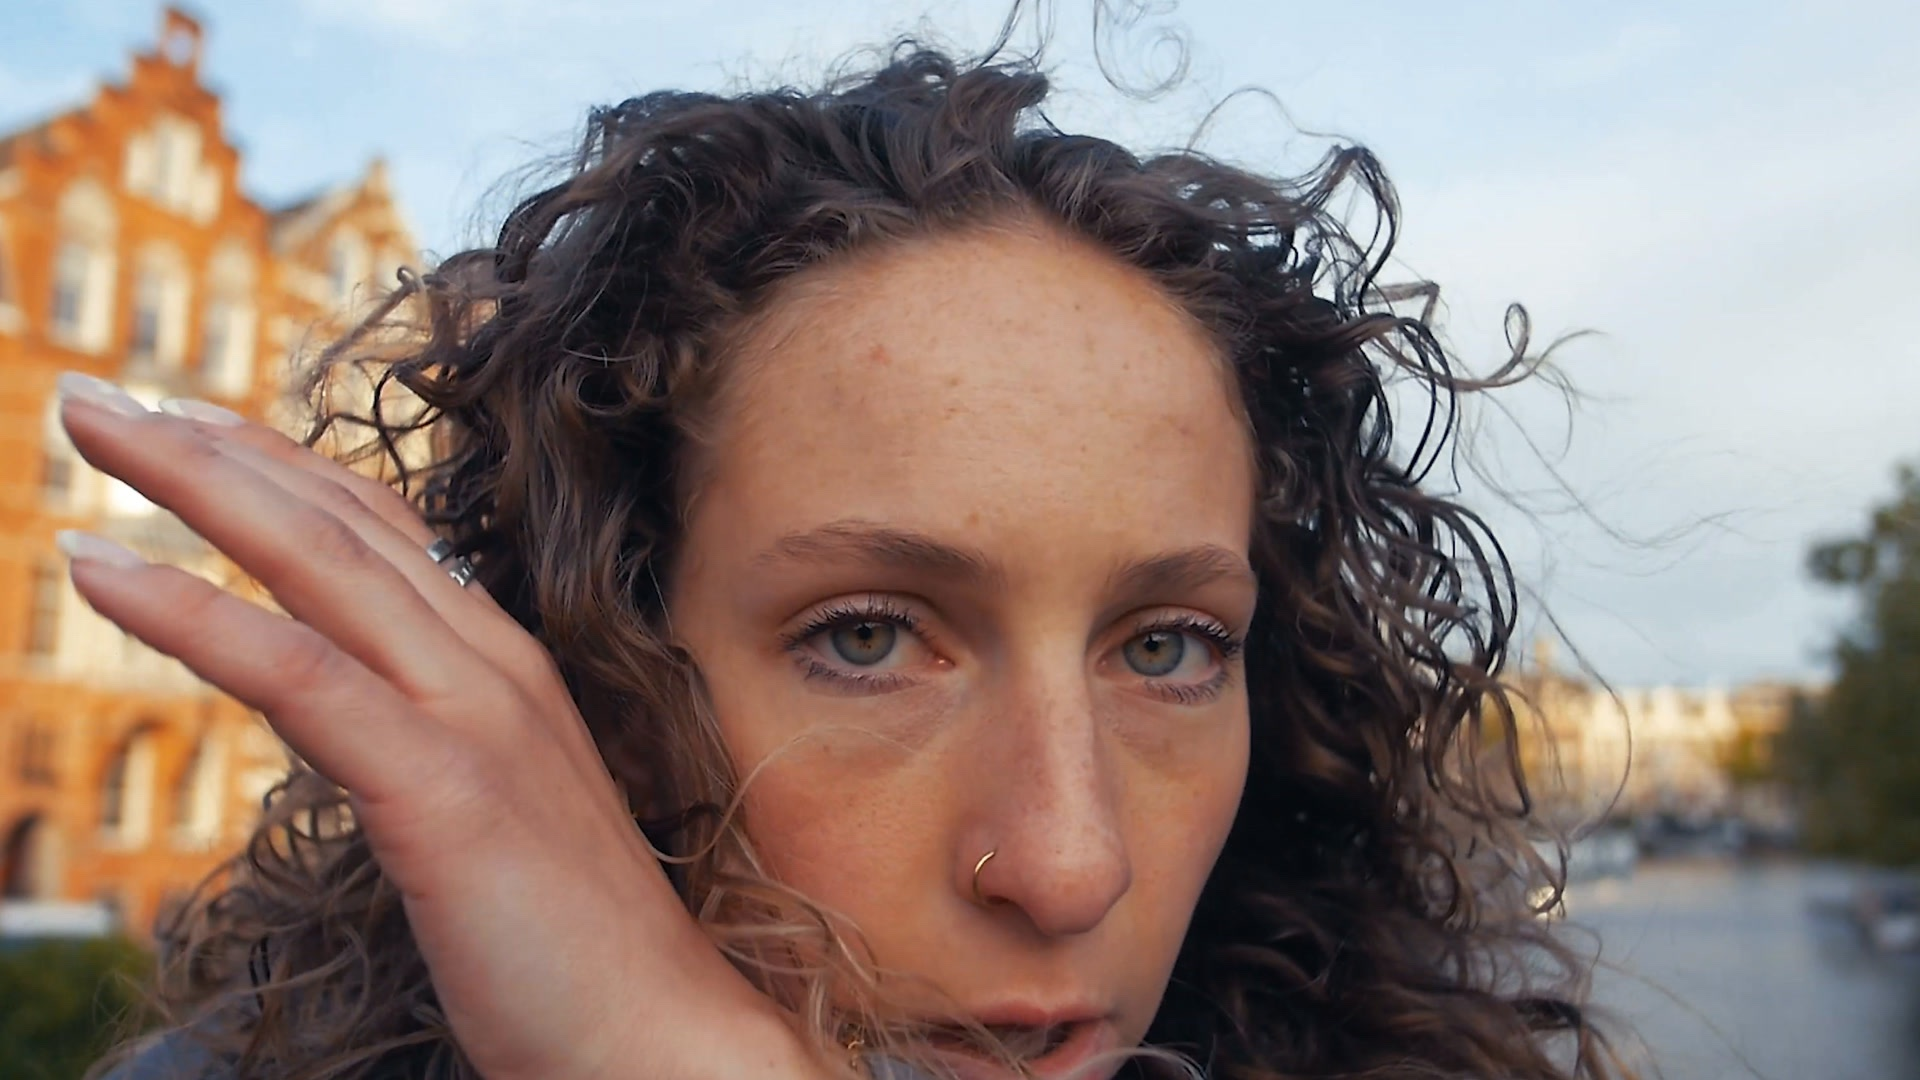
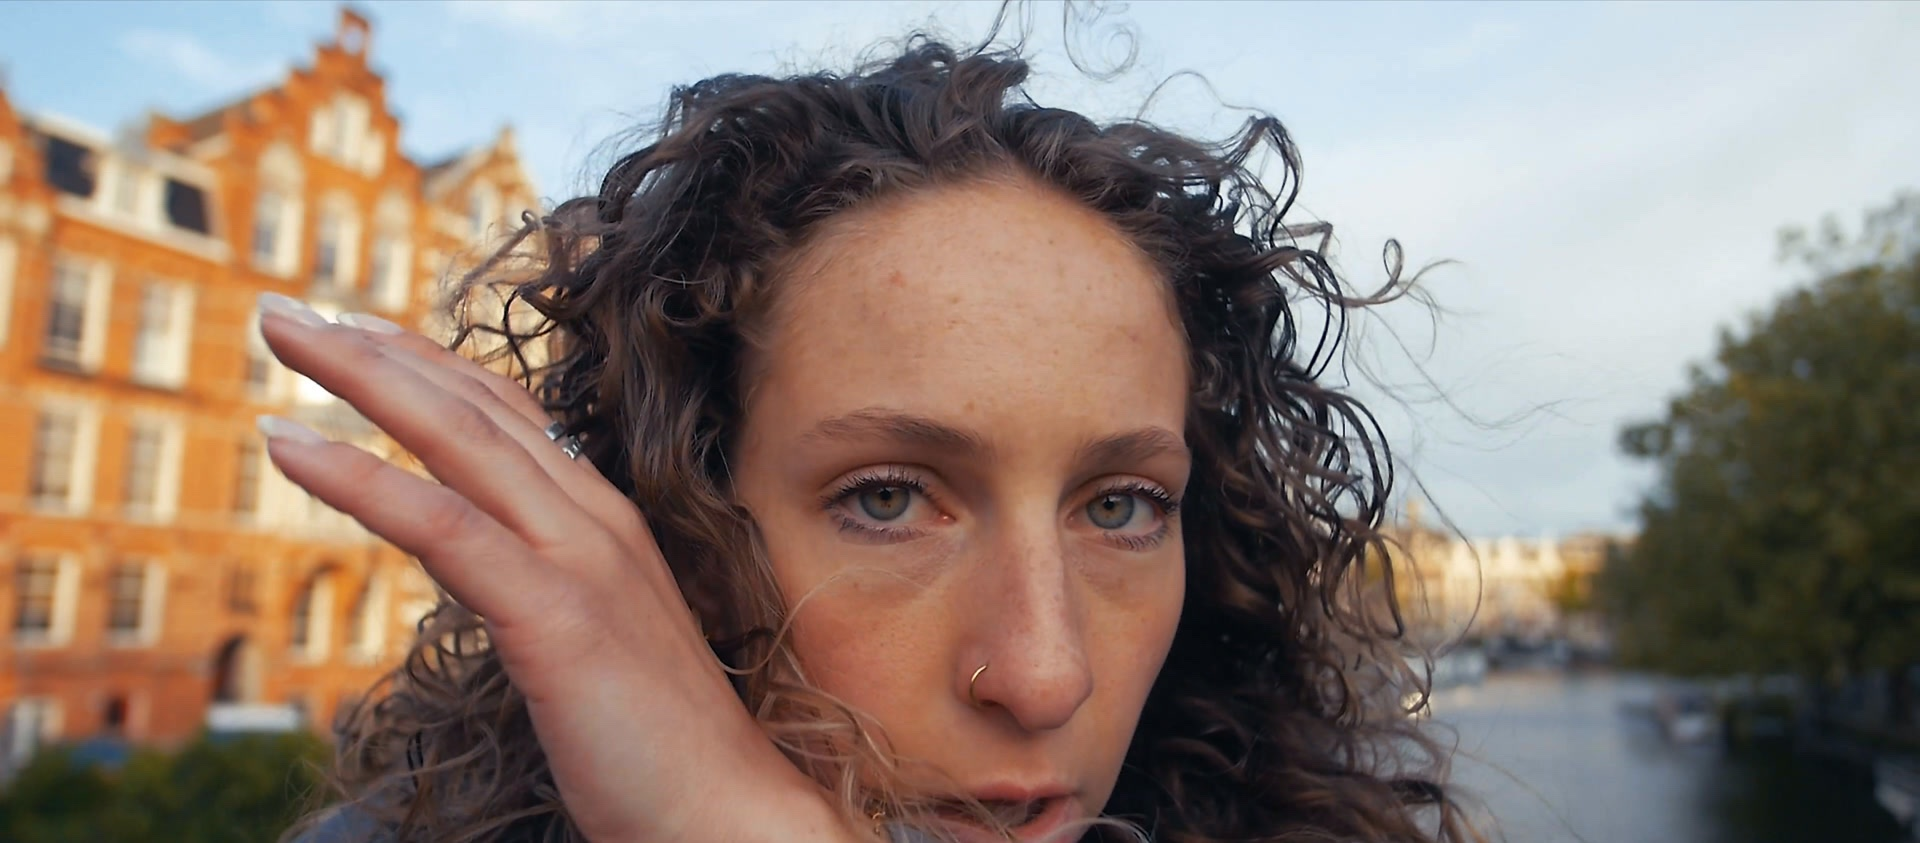
Portada de Blushes más abierta, cortada justo sobre el subtítulo

diff --git a/de/work-in-progress/index.html b/de/work-in-progress/index.html
@@ -53,7 +53,7 @@
   <article class="obra" id="blushes">
 
     <div class="ratio" data-video="zNNREmmg2Eo" data-titulo="BLUSHES ON MY CHEEKS">
-      <img src="../../img/blushes.jpg?v=3" alt="BLUSHES ON MY CHEEKS" width="1920" height="1080"><span class="marco"><span class="marco-tipo">Trailer</span><h2>Blushes on my Cheeks</h2><p class="alt">Röte auf meinen Wangen</p></span>
+      <img src="../../img/blushes.jpg?v=4" alt="BLUSHES ON MY CHEEKS" width="1920" height="843"><span class="marco"><span class="marco-tipo">Trailer</span><h2>Blushes on my Cheeks</h2><p class="alt">Röte auf meinen Wangen</p></span>
     </div>
     <p class="sinopsis">BLUSHES ON MY CHEEKS ist ein Tanzporträt von Marlie Salomé, an einem einzigen Tag auf den Straßen Amsterdams gedreht. Zwischen Brücken, Grachten und Fahrrädern tanzt Marlie in der Öffentlichkeit, während ihre eigene Stimme über die Stadt nachdenkt, darüber, wie sie zum Tanz kam, und darüber, wie es sich anfühlt, beim Tanzen beobachtet zu werden.</p>
     <p class="sinopsis">Der Titel stammt aus ihren eigenen Worten: Die Anstrengung zeigt sich in ihrem Körper, „nicht nur an meinem Atem oder an der Röte auf meinen Wangen“. Ein Film über Tanz als eine Art, im öffentlichen Raum man selbst zu sein, in dem Bewegung „mehr als nur eine Bewegung“ ist.</p>

diff --git a/es/work-in-progress/index.html b/es/work-in-progress/index.html
@@ -53,7 +53,7 @@
   <article class="obra" id="blushes">
 
     <div class="ratio" data-video="zNNREmmg2Eo" data-titulo="BLUSHES ON MY CHEEKS">
-      <img src="../../img/blushes.jpg?v=3" alt="BLUSHES ON MY CHEEKS" width="1920" height="1080"><span class="marco"><span class="marco-tipo">Tráiler</span><h2>Blushes on my Cheeks</h2><p class="alt">Rubor en mis mejillas</p></span>
+      <img src="../../img/blushes.jpg?v=4" alt="BLUSHES ON MY CHEEKS" width="1920" height="843"><span class="marco"><span class="marco-tipo">Tráiler</span><h2>Blushes on my Cheeks</h2><p class="alt">Rubor en mis mejillas</p></span>
     </div>
     <p class="sinopsis">BLUSHES ON MY CHEEKS es un retrato de danza de Marlie Salomé, filmado en un solo día en las calles de Ámsterdam. Entre puentes, canales y bicicletas, Marlie baila en público mientras su propia voz reflexiona sobre la ciudad, sobre cómo llegó a la danza y sobre lo que se siente al ser observada mientras baila.</p>
     <p class="sinopsis">El título nace de sus propias palabras: el esfuerzo se ve en su cuerpo, «no solo en mi respiración o en el rubor de mis mejillas». Una película sobre la danza como una forma de ser uno mismo en el espacio público, donde el movimiento es «más que un simple movimiento».</p>

diff --git a/work-in-progress/index.html b/work-in-progress/index.html
@@ -52,7 +52,7 @@
   <article class="obra" id="blushes">
 
     <div class="ratio" data-video="zNNREmmg2Eo" data-titulo="BLUSHES ON MY CHEEKS">
-      <img src="../img/blushes.jpg?v=3" alt="BLUSHES ON MY CHEEKS" width="1920" height="1080"><span class="marco"><span class="marco-tipo">Trailer</span><h2>Blushes on my Cheeks</h2><p class="alt">Rubor en mis mejillas</p></span>
+      <img src="../img/blushes.jpg?v=4" alt="BLUSHES ON MY CHEEKS" width="1920" height="843"><span class="marco"><span class="marco-tipo">Trailer</span><h2>Blushes on my Cheeks</h2><p class="alt">Rubor en mis mejillas</p></span>
     </div>
     <p class="sinopsis">BLUSHES ON MY CHEEKS is a dance portrait of Marlie Salomé, filmed in a single day on the streets of Amsterdam. Between bridges, canals and bicycles, Marlie dances in public while her own voice reflects on the city, on how she came to dance and on what it feels like to be watched while dancing.</p>
     <p class="sinopsis">The title comes from her own words: the effort shows in her body, “not only by my breathing, or by the red blushes on my cheeks.” A film about dance as a way of being yourself in public space, where movement is “more than just a movement.”</p>
